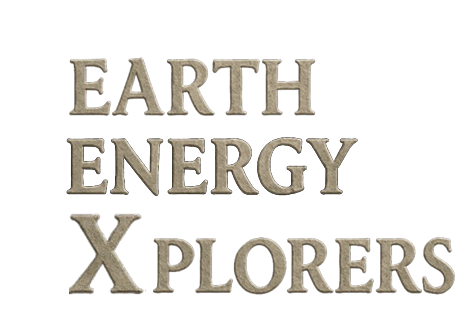
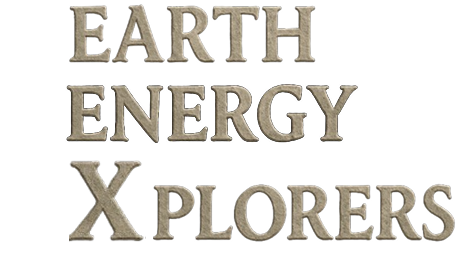
Layout Change

Changed region(s): [[0.1202, 0.0, 0.9914, 0.8953]]

diff --git a/src/pages/index.tsx b/src/pages/index.tsx
@@ -76,7 +76,7 @@ const HomePage = ({ currentPage, setCurrentPage, isMobile, menuOpen, setMenuOpen
       <div className="absolute inset-0 bg-gradient-to-b from-black/20 via-transparent to-black/30 pointer-events-none z-5"></div>
 
       {/* Navigation */}
-      <nav className={`relative ${isMobile ? 'z-30' : 'z-20'} flex items-center ${isMobile ? 'justify-between' : 'justify-start'} p-4 md:p-8`} style={{ fontFamily: 'Radley' }}>
+      <nav className={`relative ${isMobile ? 'z-30' : 'z-20'} flex items-center ${isMobile ? 'justify-between' : 'justify-start'} p-2 md:p-8`} style={{ fontFamily: 'Radley' }}>
         <div className="flex items-center space-x-3 sm:space-x-4 md:space-x-8">
           <div>
             <Image
@@ -160,13 +160,10 @@ const HomePage = ({ currentPage, setCurrentPage, isMobile, menuOpen, setMenuOpen
             <Image
               src="/eex.png"
               alt="Descriptive image for main content"
-              width={450}  // Maximum size needed
-              height={288} // Maintain aspect ratio (450 * 230/360)
+              width={360}
+              height={230}
               className="absolute eex-responsive"
-              style={{
-                zIndex: 1,
-                transform: `scale(${isMobile ? '0.9' : '1'})`, // Slight scale down on mobile
-              }}
+              style={{  zIndex: 1 }}
               priority
             />
             <div className="w-2/3 fixed  top-0 right-0 h-screen flex flex-col justify-center z-10">
@@ -200,7 +197,7 @@ const HomePage = ({ currentPage, setCurrentPage, isMobile, menuOpen, setMenuOpen
                 }}
               >
                 <motion.h2
-                  className="text-[21px] mb-2 tracking-wide"
+                  className="text-[21px] mb-1 tracking-wide"
                   style={{ fontFamily: "Aboreto, Sans-serif" }}
                   variants={textVariants}
                   custom={0}
@@ -208,7 +205,7 @@ const HomePage = ({ currentPage, setCurrentPage, isMobile, menuOpen, setMenuOpen
                   AN ANCIENT SECRET SO POWERFUL...
                 </motion.h2>
                 <motion.h3
-                  className="text-[21px] mb-2.5 tracking-wide -ml-3"
+                  className="text-[21px] mb-1 tracking-wide -ml-3"
                   style={{ fontFamily: 'Aboreto' }}
                   variants={textVariants}
                   custom={1}
@@ -216,7 +213,7 @@ const HomePage = ({ currentPage, setCurrentPage, isMobile, menuOpen, setMenuOpen
                   IT GAVE RISE TO MODERN CIVILIZATION.
                 </motion.h3>
                    <motion.p
-  className="text-[14px] mb-[14px] tracking-wide text-[#E9D6A9]"
+  className="text-[14px] mb-[6px] tracking-wide text-[#E9D6A9]"
   style={{ fontFamily: 'Raleway' }}
   variants={textVariants}
   custom={2}
@@ -319,7 +316,7 @@ const HomePage = ({ currentPage, setCurrentPage, isMobile, menuOpen, setMenuOpen
                 className="w-full h-auto rounded shadow-lg"
                 style={{
                   transform: 'translateX(0%)', // Shift left
-
+                  
                 }}
                 priority
               />
@@ -443,7 +440,7 @@ const TeamPage = ({
       {/* Semi-transparent black overlay */}
       <div className="absolute inset-0 bg-black/50" style={{ zIndex: 0 }} />
       <nav
-        className={`relative z-50 flex items-center ${isMobile ? 'justify-between' : 'justify-start'} p-4 md:p-8`}
+        className={`relative z-50 flex items-center ${isMobile ? 'justify-between' : 'justify-start'} p-2 md:p-8`}
         style={isMobile ? { width: '100%', height: '50px', position: 'absolute', top: 0, left: 0 } : {}}
       >
         <div className="flex items-center space-x-3 sm:space-x-4 md:space-x-8">

diff --git a/src/styles/globals.css b/src/styles/globals.css
@@ -57,7 +57,7 @@ body {
   transition: all 0.5s ease-in-out;
   height: auto;
   left: 20px;
-  top: 20%;
+  top: 0%;
   transform: translateY(-20%);
 }
 
